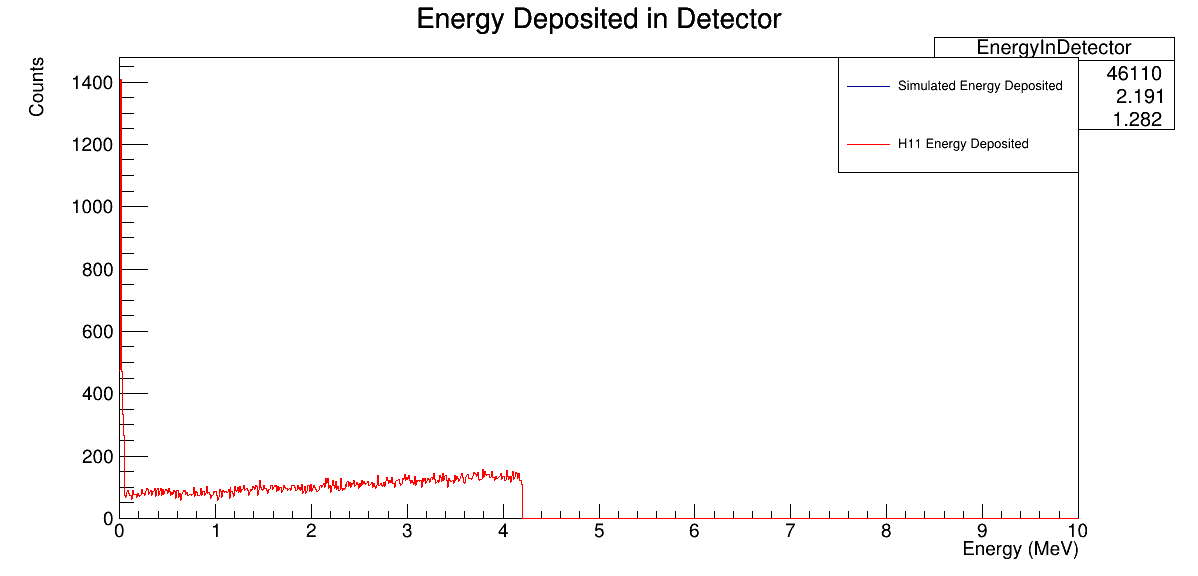
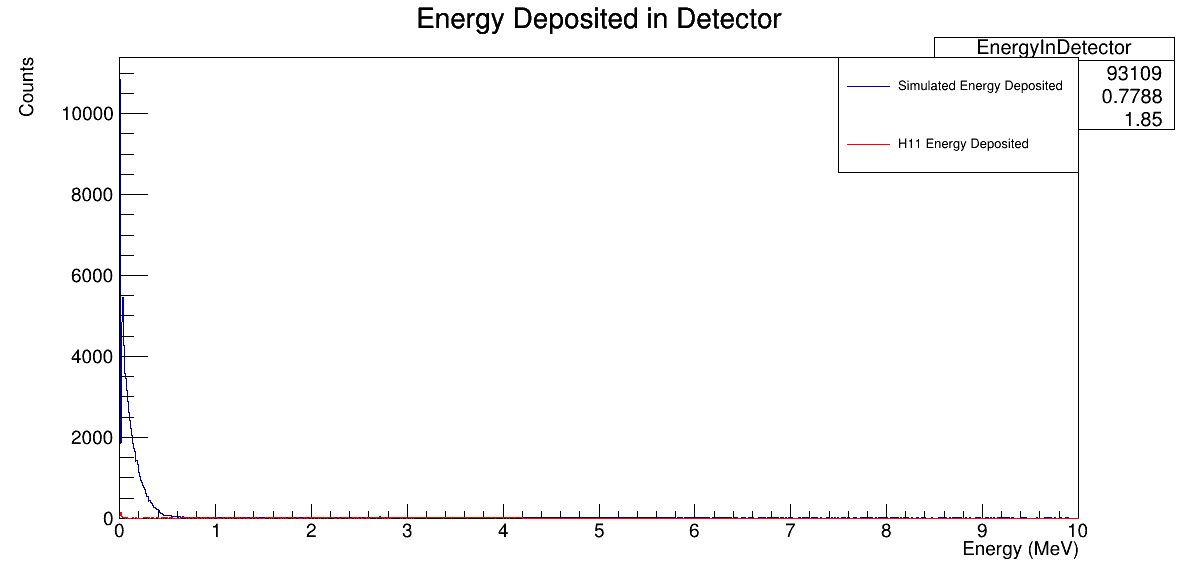
New Macro, full chain, minor changes to evaluation scripts.

diff --git a/EvalEdepTree.cpp b/EvalEdepTree.cpp
@@ -53,7 +53,7 @@ TH1D* GetEnergyInDetector(TTree* tree, TTreeIndex* index, int verbose = 0) {
 }
 
 void EvalEdepTree() {
-    TString file_name = "../alpha_build/run238U.root";
+    TString file_name = "../alpha_build/run238U_full_chain.root";
     TString tree_name = "EDeps";
 
     TString histname = "H11";

diff --git a/GetHistogram.cpp b/GetHistogram.cpp
@@ -77,7 +77,7 @@ void GetEfficiency(TH1D* hist, Long64_t n_events, double Emin, double Emax) {
 }
 
 void GetHistogram() {
-    TString file_name = "../alpha_build/run238U.root";
+    TString file_name = "../alpha_build/run238U_full_chain.root";
     TString histname = "H11";
     TString parent_tree_name = "ParentPos";
 